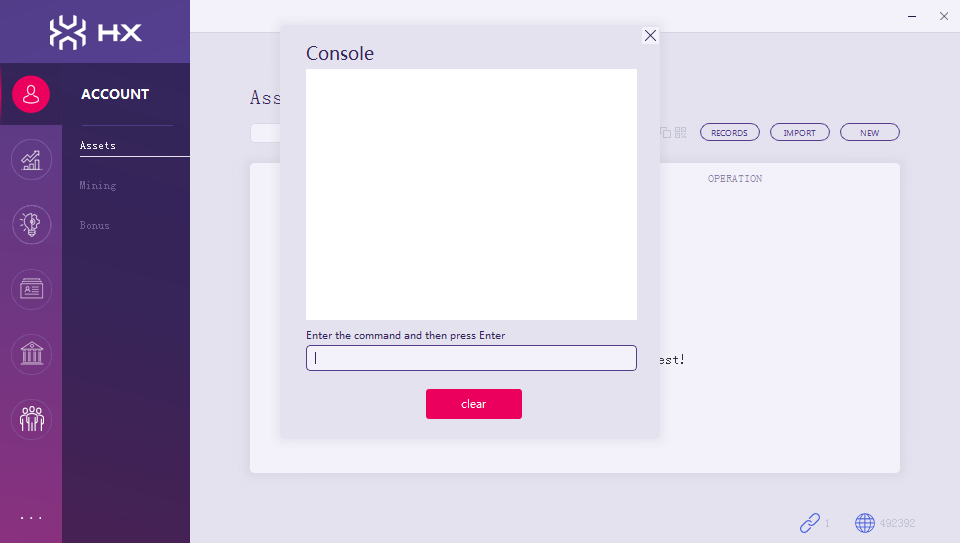
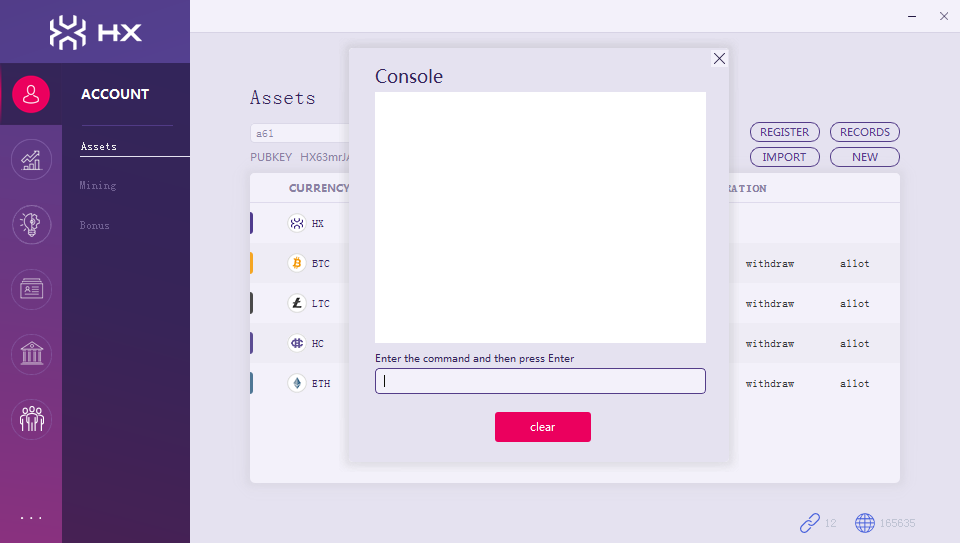
modify using account part

diff --git a/site/wallets/hxindicator-setup/index.html b/site/wallets/hxindicator-setup/index.html
@@ -1495,7 +1495,7 @@
 <p>Opening HXIndicator for the first time will display the following screen:</p>
 <p><img alt="HXIndicator open screen" src="../../img/wallets/hxindicator/indicator-open.png" /></p>
 <div class="admonition info">
-<p class="admonition-title">The default path is:%appdata%\HXIndicator_test\chaindata,you can select a path that you want to store the chaindata,make sure that path has enough disk space.</p>
+<p class="admonition-title">The default path is:%AppData%\HXIndicator_1.1.0\chaindata,you can select a path that you want to store the chaindata,make sure that path has enough disk space.</p>
 </div>
 <p>Then click <strong>Next</strong>.</p>
 <p>Select <strong>CreateWallet</strong>(If you are using a previously backed wallet file, select <strong>ImportWallet</strong>).</p>
@@ -1514,7 +1514,7 @@
 </ul>
 <p><img alt="HXIndicator setting screen" src="../../img/wallets/hxindicator/setting.png" /></p>
 <ul>
-<li>Setting:Change password:</li>
+<li>Setting:Change password, View the default data path and configuration file path:</li>
 </ul>
 <p><img alt="HXIndicator setting screen" src="../../img/wallets/hxindicator/setting-change-password.png" /></p>
 <ul>
@@ -1530,8 +1530,9 @@
 </ul>
 <p><img alt="HXIndicator setting screen" src="../../img/wallets/hxindicator/console.png" /></p>
 <ul>
-<li>Help:include <strong><em>About Us</em><em>/</em>Update</strong></li>
+<li>Help:include <strong><em>About Us</em><em>/</em>Update</strong>, You can see if it&rsquo;s the latest version and automatically upgrade：</li>
 </ul>
+<p><img alt="HXIndicator setting screen" src="../../img/wallets/hxindicator/setting-update.png" /></p>
 <h2 id="troubleshooting">Troubleshooting<a class="headerlink" href="#troubleshooting" title="Permanent link">&para;</a></h2>
 <p><em>HXIndicator will not start!</em></p>
 <pre><code>HXIndicator closed due to an error. Check HXIndicator logs
@@ -1550,15 +1551,11 @@ and contact support if the issue persists.
 <tbody>
 <tr>
 <td align="right">Windows</td>
-<td align="center"><code>%appdata%\HXIndicator_test\chaindata</code></td>
+<td align="center"><code>%appdata%\HXIndicator_1.1.0\chaindata</code></td>
 </tr>
 <tr>
 <td align="right">macOS</td>
-<td align="center"><code>~\Library\Application Support\HXIndicator_test\chaindata/</code></td>
-</tr>
-<tr>
-<td align="right">Linux</td>
-<td align="center"><code>~/HXIndicator_test/chaindata/</code></td>
+<td align="center"><code>~\Library\Application Support\HXIndicator_1.1.0\chaindata/</code></td>
 </tr>
 </tbody>
 </table>

diff --git a/src/i18n/zh/site/wallets/hxindicator-setup/index.html b/src/i18n/zh/site/wallets/hxindicator-setup/index.html
@@ -1495,7 +1495,7 @@
 <p>首次打开HXIndicator将显示以下屏幕：</p>
 <p><img alt="HXIndicator open screen" src="../../img/wallets/hxindicator/indicator-open.png" /></p>
 <div class="admonition info">
-<p class="admonition-title">默认路径为：％appdata％\ HXIndicator_test \ chaindata，您可以选择要存储chaindata的路径，确保路径有足够的磁盘空间。</p>
+<p class="admonition-title">默认路径为：%AppData%\HXIndicator_1.1.0\chaindata，您可以选择要存储chaindata的路径，确保路径有足够的磁盘空间。</p>
 </div>
 <p>然后单击 <strong>Next</strong>.</p>
 <p>选择 <strong>CreateWallet</strong>(如果您使用的是先前备份的钱包文件，请选择 <strong>ImportWallet</strong>).</p>
@@ -1514,7 +1514,7 @@
 </ul>
 <p><img alt="HXIndicator setting screen" src="../../img/wallets/hxindicator/setting.png" /></p>
 <ul>
-<li>Setting:更改密码</li>
+<li>Setting:更改密码，查看默认的数据路径以及配置文件路径：</li>
 </ul>
 <p><img alt="HXIndicator setting screen" src="../../img/wallets/hxindicator/setting-change-password.png" /></p>
 <ul>
@@ -1530,8 +1530,9 @@
 </ul>
 <p><img alt="HXIndicator setting screen" src="../../img/wallets/hxindicator/console.png" /></p>
 <ul>
-<li>Help:include <strong><em>About Us</em><em>/</em>Update</strong></li>
+<li>Help:include <strong><em>About Us</em><em>/</em>Update</strong>，可以查看是否是最新版本并自动升级：</li>
 </ul>
+<p><img alt="HXIndicator setting screen" src="../../img/wallets/hxindicator/setting-update.png" /></p>
 <h2 id="_2">故障排除<a class="headerlink" href="#_2" title="Permanent link">&para;</a></h2>
 <p><em>HXIndicator无法启动!</em></p>
 <pre><code>HXIndicator closed due to an error. Check HXIndicator logs
@@ -1550,15 +1551,11 @@ and contact support if the issue persists.
 <tbody>
 <tr>
 <td align="right">Windows</td>
-<td align="center"><code>%appdata%\HXIndicator_test\chaindata</code></td>
+<td align="center"><code>%AppData%\HXIndicator_1.1.0\chaindata</code></td>
 </tr>
 <tr>
 <td align="right">macOS</td>
-<td align="center"><code>~\Library\Application Support\HXIndicator_test\chaindata/</code></td>
-</tr>
-<tr>
-<td align="right">Linux</td>
-<td align="center"><code>~/HXIndicator_test/chaindata/</code></td>
+<td align="center"><code>~\Library\Application Support\HXIndicator_1.1.0\chaindata/</code></td>
 </tr>
 </tbody>
 </table>

diff --git a/site/advanced/rppop/network-role/index.html b/site/advanced/rppop/network-role/index.html
@@ -1038,13 +1038,6 @@
 </li>
       
         <li class="md-nav__item">
-  <a href="#candidate-citizen" title="Candidate Citizen" class="md-nav__link">
-    Candidate Citizen
-  </a>
-  
-</li>
-      
-        <li class="md-nav__item">
   <a href="#citizen" title="Citizen" class="md-nav__link">
     Citizen
   </a>
@@ -1405,13 +1398,6 @@
 </li>
       
         <li class="md-nav__item">
-  <a href="#candidate-citizen" title="Candidate Citizen" class="md-nav__link">
-    Candidate Citizen
-  </a>
-  
-</li>
-      
-        <li class="md-nav__item">
   <a href="#citizen" title="Citizen" class="md-nav__link">
     Citizen
   </a>
@@ -1450,9 +1436,6 @@
 <hr />
 <h2 id="tourist">Tourist<a class="headerlink" href="#tourist" title="Permanent link">&para;</a></h2>
 <p>Includes all users on the HyperExchange chain and all users on other chains that interoperate with the HyperExchange network.</p>
-<hr />
-<h2 id="candidate-citizen">Candidate Citizen<a class="headerlink" href="#candidate-citizen" title="Permanent link">&para;</a></h2>
-<p>Candidate Citizens can accept asset pledges from other users on the chain. Ordinary users can pay 1,000 HX to become a Candidate Citizen (this fee will be destroyed).</p>
 <hr />
 <h2 id="citizen">Citizen<a class="headerlink" href="#citizen" title="Permanent link">&para;</a></h2>
 <p>A Citizen is a block generator and community governor of the HyperExchange chain, responsible for validating transactions and block generation. Citizens operate as decentralised mining pools on the chain. Candidate Citizens can become Citizens by providing multiple assets to stake on the chain (HSR/HC will receive a higher weighting), assets of which can be provided by themselves or supported by other users. If a Candidate Citizen does not have sufficient assets to pledge, it will be nearly impossible for them to become a Citizen.</p>

diff --git a/src/i18n/zh/site/advanced/rppop/network-role/index.html b/src/i18n/zh/site/advanced/rppop/network-role/index.html
@@ -1038,13 +1038,6 @@
 </li>
       
         <li class="md-nav__item">
-  <a href="#candidate-citizen" title="Candidate Citizen" class="md-nav__link">
-    Candidate Citizen
-  </a>
-  
-</li>
-      
-        <li class="md-nav__item">
   <a href="#citizen" title="Citizen" class="md-nav__link">
     Citizen
   </a>
@@ -1405,13 +1398,6 @@
 </li>
       
         <li class="md-nav__item">
-  <a href="#candidate-citizen" title="Candidate Citizen" class="md-nav__link">
-    Candidate Citizen
-  </a>
-  
-</li>
-      
-        <li class="md-nav__item">
   <a href="#citizen" title="Citizen" class="md-nav__link">
     Citizen
   </a>
@@ -1450,9 +1436,6 @@
 <hr />
 <h2 id="tourist">Tourist<a class="headerlink" href="#tourist" title="Permanent link">&para;</a></h2>
 <p>包括 HyperExchange 链上的所有用户以及与 HyperExchange 互通的其他链上的所有用户。</p>
-<hr />
-<h2 id="candidate-citizen">Candidate Citizen<a class="headerlink" href="#candidate-citizen" title="Permanent link">&para;</a></h2>
-<p>普通用户可以交纳 1000个 HX 成为 Candidateof Citizen（此笔费用将会销毁） 。Candidate of Citizen 可以接受链上其他用户的资产质押。</p>
 <hr />
 <h2 id="citizen">Citizen<a class="headerlink" href="#citizen" title="Permanent link">&para;</a></h2>
 <p>Citizen 是 HyperExchange 的生产者和社区治理者，负责记账和产块，它是链上的去中心化矿池。Candidate of Citizen 成为 Citizen 需

diff --git a/site/wallets/hxindicator-using-account/index.html b/site/wallets/hxindicator-using-account/index.html
@@ -1454,7 +1454,7 @@
 <p><img alt="backup Tab" src="../../img/wallets/hxindicator/backup-wallet.png" /></p>
 <p><img alt="backup Tab1" src="../../img/wallets/hxindicator/backup-wallet1.png" /></p>
 <blockquote>
-<p>To be a registered account, if the user wants to mine, or to be senator or citizen, it must register, click &ldquo;REGISTER&rdquo; on the asset page.</p>
+<p>To be a registered account, if the user wants to mine, or to be senator or citizen, it must register, click &ldquo;REGISTER&rdquo; on the asset page, Select the account to be registered, fill in the name to be registered, registration of an account will cost 5HX, the first registration, because there is no HX, need to select &ldquo;Use acceptance&rdquo;, select one currency, the system will automatically select the cheapest handling fee acceptance;</p>
 </blockquote>
 <p><img alt="Mining Register" src="../../img/wallets/hxindicator/mining-register.png" /></p>
 <p>Click &ldquo;OK&rdquo;,enter the wallet password.You will see screen as below.</p>

diff --git a/src/i18n/zh/site/wallets/hxindicator-using-account/index.html b/src/i18n/zh/site/wallets/hxindicator-using-account/index.html
@@ -1454,7 +1454,7 @@
 <p><img alt="backup Tab" src="../../img/wallets/hxindicator/backup-wallet.png" /></p>
 <p><img alt="backup Tab1" src="../../img/wallets/hxindicator/backup-wallet1.png" /></p>
 <blockquote>
-<p>成为注册账户，如果用户想挖矿，或者想成为senator、citizen，则必须要注册，在asset页面点击‘注册’；</p>
+<p>成为注册账户，如果用户想挖矿，或者想成为senator、citizen，则必须要注册，在asset页面点击‘注册’，选择需要注册的账户，填写注册的名字，注册一个账户会花费5HX，第一次注册的时候，由于没有HX，需要选择“Use acceptance”，选择对应的币种，系统会自动选择最便宜的手续费承兑单；</p>
 </blockquote>
 <p><img alt="Mining Register" src="../../img/wallets/hxindicator/mining-register.png" /></p>
 <p>点击 &ldquo;OK&rdquo;，输入钱包密码，会出现下面的界面：</p>

diff --git a/site/getting-started/using-the-block-explorer/index.html b/site/getting-started/using-the-block-explorer/index.html
@@ -1467,8 +1467,8 @@
 <h2 id="overview">Overview<a class="headerlink" href="#overview" title="Permanent link">&para;</a></h2>
 <p>All blocks/transactions/contracts on the hyperexchange blockchain are visible through the use of this block explorer.</p>
 <ul>
-<li>The explorer of public testnet:<a href="https://explorer.hx">https://explorer.hx</a>.</li>
-<li>The explorer of mainnet:<a href="https://explorer.hx">https://explorer.hx</a>.</li>
+<li>The explorer of public testnet:<a href="http://explorer.hx.cash">http://explorer.hx.cash</a>.</li>
+<li>The explorer of mainnet:<a href="http://explorer.hx.cash">http://explorer.hx.cash</a>.</li>
 </ul>
 <p>You can enter Address/TxHash/Contract Address/Height in the search box to find more detailed information about them.</p>
 <p><img alt="Search" src="../../img/getting-started/explore/search.png" /></p>

diff --git a/src/i18n/zh/site/getting-started/using-the-block-explorer/index.html b/src/i18n/zh/site/getting-started/using-the-block-explorer/index.html
@@ -1467,8 +1467,8 @@
 <h2 id="_2">概述<a class="headerlink" href="#_2" title="Permanent link">&para;</a></h2>
 <p>通过使用此块浏览器，可以看到hyperexchange区块链上的所有块/交易/合约。</p>
 <ul>
-<li>The explorer of public testnet:<a href="https://explorer.hx.cash">https://explorer.hx.cash</a>.</li>
-<li>The explorer of mainnet:<a href="https://explorer.hx.cash">https://explorer.hx.cash</a>.</li>
+<li>The explorer of public testnet:<a href="http://explorer.hx.cash">http://explorer.hx.cash</a>.</li>
+<li>The explorer of mainnet:<a href="http://explorer.hx.cash">http://explorer.hx.cash</a>.</li>
 </ul>
 <p>您可以在搜索框中输入地址/ TxHash /合同地址/高度，以查找有关它们的更多详细信息。</p>
 <p><img alt="Search" src="../../img/getting-started/explore/search.png" /></p>

diff --git a/docs/wallets/hxindicator-setup.md b/docs/wallets/hxindicator-setup.md
@@ -45,7 +45,7 @@ Opening HXIndicator for the first time will display the following screen:
 
 ![HXIndicator open screen](/img/wallets/hxindicator/indicator-open.png)
 
-!!! info "The default path is:%appdata%\HXIndicator_test\chaindata,you can select a path that you want to store the chaindata,make sure that path has enough disk space."
+!!! info "The default path is:%AppData%\HXIndicator_1.1.0\chaindata,you can select a path that you want to store the chaindata,make sure that path has enough disk space."
 
 Then click **Next**.
 
@@ -75,7 +75,7 @@ In the lower left corner of the interface,after click **...**,list **Setting**/L
 
 ![HXIndicator setting screen](/img/wallets/hxindicator/setting.png)
 
-* Setting:Change password:
+* Setting:Change password, View the default data path and configuration file path:
 
 ![HXIndicator setting screen](/img/wallets/hxindicator/setting-change-password.png)
 
@@ -91,7 +91,9 @@ In the lower left corner of the interface,after click **...**,list **Setting**/L
 
 ![HXIndicator setting screen](/img/wallets/hxindicator/console.png)
 
-* Help:include ***About Us**/*Update**
+* Help:include ***About Us**/*Update**, You can see if it's the latest version and automatically upgrade：
+
+![HXIndicator setting screen](/img/wallets/hxindicator/setting-update.png)
 
 ## Troubleshooting
 
@@ -108,6 +110,5 @@ HyperExchange stores the blockchain, your wallet, log files and its own configur
 
 | OS      | HyperExchange data directory                   |
 | -------:|:-------------------------------------------:|
-| Windows | `%appdata%\HXIndicator_test\chaindata`                |
-| macOS   | `~\Library\Application Support\HXIndicator_test\chaindata/` |
-| Linux   | `~/HXIndicator_test/chaindata/`                     |
+| Windows | `%appdata%\HXIndicator_1.1.0\chaindata`                |
+| macOS   | `~\Library\Application Support\HXIndicator_1.1.0\chaindata/` |

diff --git a/docs/advanced/rppop/network-role.md b/docs/advanced/rppop/network-role.md
@@ -8,12 +8,6 @@ Includes all users on the HyperExchange chain and all users on other chains that
 
 ---
 
-## Candidate Citizen
-
-Candidate Citizens can accept asset pledges from other users on the chain. Ordinary users can pay 1,000 HX to become a Candidate Citizen (this fee will be destroyed).
-
----
-
 ## Citizen
 
 A Citizen is a block generator and community governor of the HyperExchange chain, responsible for validating transactions and block generation. Citizens operate as decentralised mining pools on the chain. Candidate Citizens can become Citizens by providing multiple assets to stake on the chain (HSR/HC will receive a higher weighting), assets of which can be provided by themselves or supported by other users. If a Candidate Citizen does not have sufficient assets to pledge, it will be nearly impossible for them to become a Citizen.

diff --git a/docs/wallets/hxindicator-using-account.md b/docs/wallets/hxindicator-using-account.md
@@ -24,7 +24,7 @@ Click "OK" to backup wallet data, select a safe path, and click "Backup".
 
 ![backup Tab1](/img/wallets/hxindicator/backup-wallet1.png)
 
-> To be a registered account, if the user wants to mine, or to be senator or citizen, it must register, click "REGISTER" on the asset page.
+> To be a registered account, if the user wants to mine, or to be senator or citizen, it must register, click "REGISTER" on the asset page, Select the account to be registered, fill in the name to be registered, registration of an account will cost 5HX, the first registration, because there is no HX, need to select "Use acceptance", select one currency, the system will automatically select the cheapest handling fee acceptance;
 
 ![Mining Register](/img/wallets/hxindicator/mining-register.png)
 
